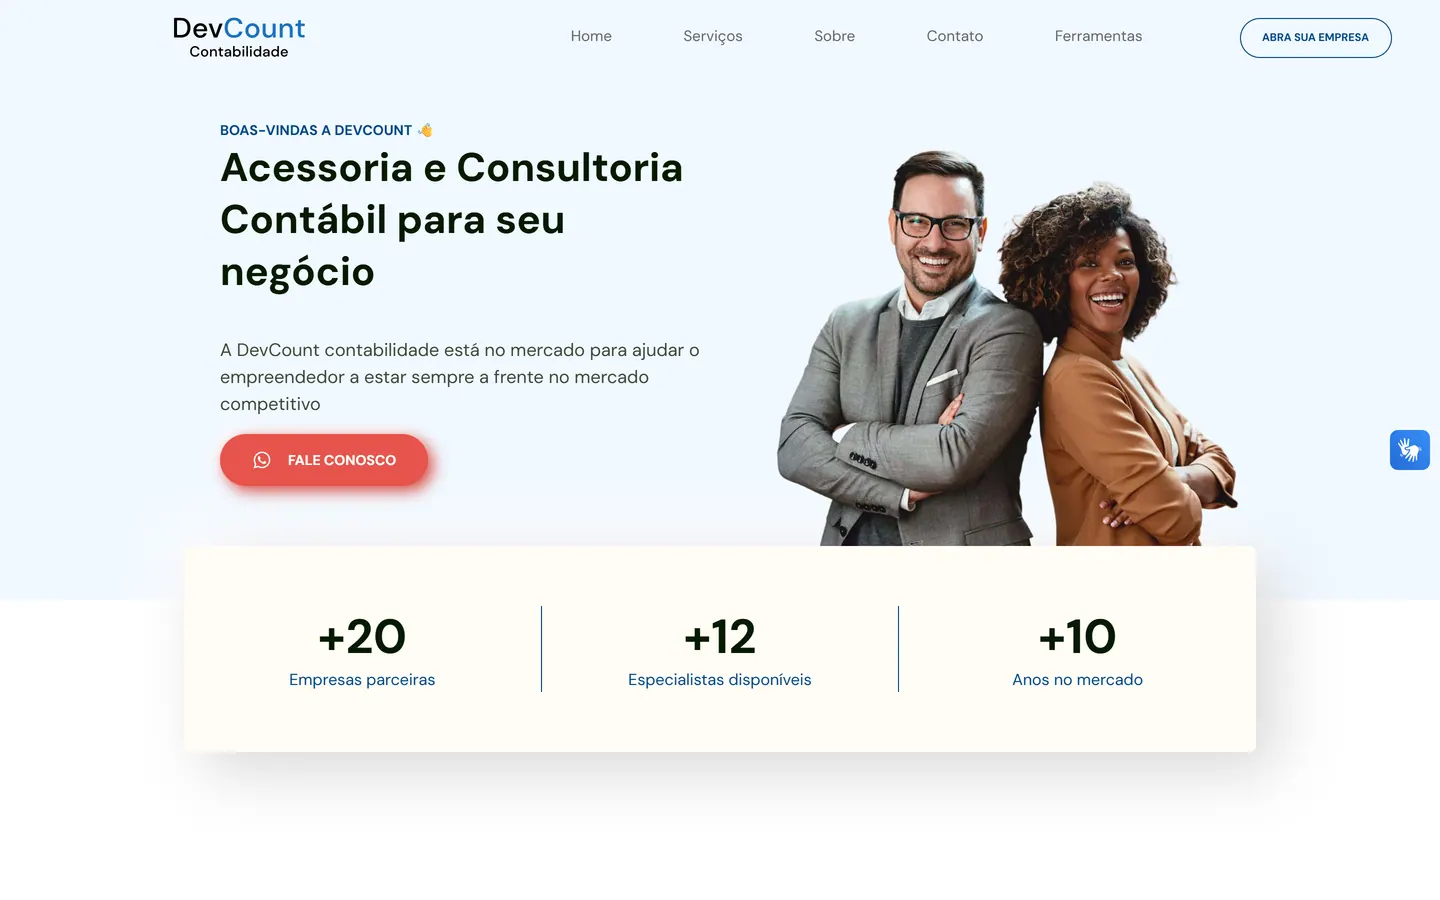
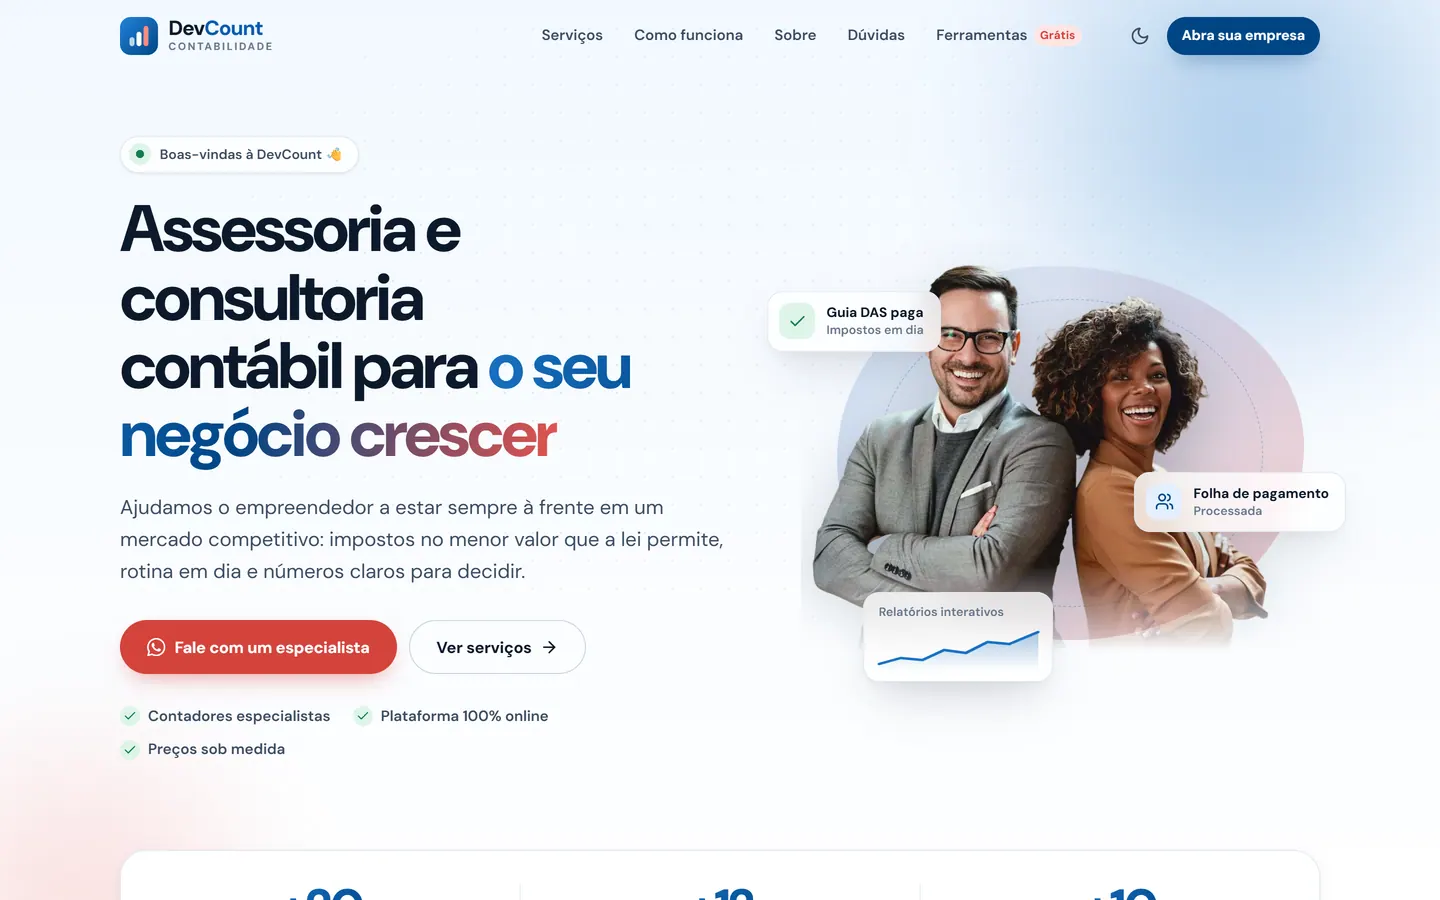
Barra de vidro como a do DevCount, animações mais calmas e capturas novas
- Menu transparente no topo, com o fundo do hero passando por baixo; ao rolar
  entra o vidro do site do DevCount (fundo translúcido, desfoque, borda e sombra leve)
- Entradas e movimentos mais lentos, com um único ajuste de ritmo (--motion-scale)
- Capturas do DevCount refeitas a partir do site novo, com textos alternativos atualizados

diff --git a/src/styles/editorial.css b/src/styles/editorial.css
@@ -394,6 +394,10 @@
   .contact-links {
     width: 100%;
   }
+  .nav-glass {
+    background: var(--nav-bg);
+    backdrop-filter: saturate(1.6) blur(16px);
+  }
   .navbar-brand {
     min-height: 44px;
   }
@@ -600,8 +604,8 @@
     }
     .skill-card {
       transition:
-        transform 250ms var(--ease-out-soft),
-        border-color 250ms;
+        transform 450ms var(--ease-out-soft),
+        border-color 450ms;
     }
     .skill-card:hover {
       transform: translateY(-3px);
@@ -612,13 +616,13 @@
 
 .reveal {
   transition:
-    opacity 650ms var(--ease-out-soft),
-    transform 650ms var(--ease-out-soft);
-  transition-delay: var(--reveal-delay, 0s);
+    opacity calc(650ms * var(--motion-scale)) var(--ease-out-soft),
+    transform calc(650ms * var(--motion-scale)) var(--ease-out-soft);
+  transition-delay: calc(var(--reveal-delay, 0s) * var(--motion-scale));
 }
 .reveal[data-revealed='false'] {
   opacity: 0;
-  transform: translateY(var(--reveal-y, 18px));
+  transform: translateY(var(--reveal-y, 24px));
 }
 .reveal[data-revealed='true'] {
   opacity: 1;
@@ -628,7 +632,7 @@
   transform: scale(0.985);
 }
 .project-preview-inner {
-  transition: transform 850ms var(--ease-out-soft);
+  transition: transform calc(850ms * var(--motion-scale)) var(--ease-out-soft);
 }
 
 /* Quem imprime ou salva em PDF recebe tudo, inclusive o que ainda não entrou na tela. */
@@ -654,7 +658,7 @@
   border-radius: 50%;
   background: radial-gradient(closest-side, var(--glow), transparent 72%);
   transform: translate(-50%, 0);
-  animation: hero-drift 22s ease-in-out infinite alternate;
+  animation: hero-drift 32s ease-in-out infinite alternate;
 }
 @keyframes hero-drift {
   0% {
@@ -683,7 +687,7 @@
     0 0;
   mask-image: radial-gradient(280px circle at var(--mx, 68%) var(--my, 32%), #000, transparent 72%);
   opacity: 0;
-  transition: opacity 500ms var(--ease-out-soft);
+  transition: opacity 800ms var(--ease-out-soft);
 }
 .hero-bg[data-active='true'] .hero-grid-spot {
   opacity: 0.9;
@@ -701,7 +705,7 @@
 
 /* Indicador de rolagem: a seta desce e volta. */
 .hero-scroll svg {
-  animation: hero-nudge 2.4s var(--ease-out-soft) infinite;
+  animation: hero-nudge 3.2s var(--ease-out-soft) infinite;
 }
 @keyframes hero-nudge {
   0%,
@@ -724,7 +728,7 @@
   border-radius: 50%;
   border: 1px solid var(--accent);
   opacity: 0;
-  animation: dot-ping 2.6s var(--ease-out-soft) infinite;
+  animation: dot-ping 3.4s var(--ease-out-soft) infinite;
 }
 @keyframes dot-ping {
   0% {
@@ -741,7 +745,7 @@
 /* Cabeçalho de seção: o fio ao lado do rótulo se desenha quando a seção entra. */
 .section-rule {
   transform-origin: left;
-  transition: transform 900ms var(--ease-out-soft) 150ms;
+  transition: transform calc(900ms * var(--motion-scale)) var(--ease-out-soft) calc(150ms * var(--motion-scale));
 }
 .reveal[data-revealed='false'] .section-rule {
   transform: scaleX(0);
@@ -750,9 +754,9 @@
 /* Itens de lista entram em sequência depois do cartão (--i vem do componente). */
 .reveal .stagger-item {
   transition:
-    opacity 500ms var(--ease-out-soft),
-    transform 500ms var(--ease-out-soft);
-  transition-delay: calc(var(--reveal-delay, 0s) + 120ms + var(--i, 0) * 45ms);
+    opacity calc(500ms * var(--motion-scale)) var(--ease-out-soft),
+    transform calc(500ms * var(--motion-scale)) var(--ease-out-soft);
+  transition-delay: calc((var(--reveal-delay, 0s) + 120ms + var(--i, 0) * 45ms) * var(--motion-scale));
 }
 .reveal[data-revealed='false'] .stagger-item {
   opacity: 0;
@@ -762,8 +766,8 @@
 /* Linha do tempo: o marcador acende e pulsa uma vez quando o cartão entra. */
 .timeline-dot {
   transition:
-    transform 450ms var(--ease-out-soft),
-    border-color 450ms;
+    transform calc(450ms * var(--motion-scale)) var(--ease-out-soft),
+    border-color calc(450ms * var(--motion-scale));
 }
 .timeline-item:has(.reveal[data-revealed='false']) .timeline-dot {
   transform: scale(0.4);
@@ -802,7 +806,7 @@
 /* Desktop com mouse: prévia do projeto aproxima um pouco no hover. */
 @media (hover: hover) and (pointer: fine) {
   .project-preview-button > :first-child {
-    transition: transform 600ms var(--ease-out-soft);
+    transition: transform 900ms var(--ease-out-soft);
   }
   .project-preview-button:hover > :first-child {
     transform: scale(1.025);

diff --git a/src/sections/Hero/Hero.tsx b/src/sections/Hero/Hero.tsx
@@ -7,6 +7,9 @@ import { scrollToSection } from '@/lib/scroll'
 import { SECTION_IDS } from '@/sections/ids'
 import { HeroBackground } from './HeroBackground'
 
+// Atraso das entradas do hero, no ritmo de --motion-scale (tokens.css).
+const delay = (s: number) => ({ animationDelay: `calc(${s}s * var(--motion-scale, 1))` })
+
 export function Hero() {
   const { t, lang } = useI18n()
   const resumeLang = __RESUMES__[lang] ? lang : __RESUMES__.pt ? 'pt' : __RESUMES__.en ? 'en' : null
@@ -26,7 +29,7 @@ export function Hero() {
               <WordReveal text="Danyell" as="span" className="block" delay={0.12} />
             </span>
           </h1>
-          <p className="hero-credential fade-up" style={{ animationDelay: '0.2s' }}>
+          <p className="hero-credential fade-up" style={delay(0.2)}>
             <span aria-hidden="true" className="status-dot" />
             {t.hero.role} <span className="text-muted">084091/O</span>
           </p>
@@ -43,10 +46,10 @@ export function Hero() {
               />
             ))}
           </p>
-          <p className="hero-description fade-up" style={{ animationDelay: '0.35s' }}>
+          <p className="hero-description fade-up" style={delay(0.35)}>
             {t.hero.tagline}
           </p>
-          <div className="hero-actions fade-up" style={{ animationDelay: '0.4s' }}>
+          <div className="hero-actions fade-up" style={delay(0.4)}>
             <ButtonLink
               href={'#' + SECTION_IDS.projects}
               onClick={(e) => {
@@ -72,7 +75,7 @@ export function Hero() {
             ) : null}
           </div>
         </div>
-        <div className="hero-bottom fade-up" style={{ animationDelay: '0.45s' }}>
+        <div className="hero-bottom fade-up" style={delay(0.45)}>
           <a
             href={'#' + SECTION_IDS.about}
             onClick={(e) => {

diff --git a/src/components/layout/Navbar.tsx b/src/components/layout/Navbar.tsx
@@ -53,16 +53,17 @@ export function Navbar() {
   return (
     <header
       className={
-        'fixed inset-x-0 top-0 z-50 border-b bg-bg/95 transition-[border-color,background-color] duration-300 ' +
-        (scrolled || open ? 'border-border/80' : 'border-transparent')
+        'fixed inset-x-0 top-0 z-50 border-b transition-[border-color,box-shadow] duration-500 ' +
+        (scrolled || open ? 'border-border shadow-(--shadow-nav)' : 'border-transparent')
       }
     >
+      {/* No topo a barra é transparente e o fundo do hero continua por baixo dela; ao rolar
+          entra o vidro, o mesmo do site do DevCount: fundo levemente translúcido e desfoque. */}
       <div
         className={
-          'absolute inset-0 -z-10 transition-opacity duration-300 backdrop-blur-xl backdrop-saturate-150 ' +
+          'nav-glass absolute inset-0 -z-10 transition-opacity duration-500 ' +
           (scrolled || open ? 'opacity-100' : 'opacity-0')
         }
-        style={{ background: 'var(--nav-bg)' }}
         aria-hidden="true"
       />
       <nav aria-label={t.a11y.mainNav} className="container-page flex h-16 items-center justify-between gap-4">

diff --git a/src/styles/tokens.css b/src/styles/tokens.css
@@ -23,7 +23,8 @@
   --card-glow: rgba(30, 100, 149, 0.14);
   --spotlight: rgba(30, 100, 149, 0.09);
   --grid-line-soft: rgba(15, 23, 42, 0.033);
-  --nav-bg: rgba(247, 248, 250, 0.7);
+  --nav-bg: rgba(247, 248, 250, 0.78);
+  --shadow-nav: 0 1px 2px rgba(15, 23, 42, 0.06), 0 1px 3px rgba(15, 23, 42, 0.04);
   --shadow-card: 0 1px 2px rgba(15, 23, 42, 0.04), 0 24px 48px -28px rgba(15, 23, 42, 0.22);
   --device: #10151f;
   --device-edge: #2a3240;
@@ -34,6 +35,8 @@
   --device-shadow: rgba(0, 0, 0, 0.55);
   --device-highlight: rgba(255, 255, 255, 0.06);
   --radius-card: 1rem;
+  /* Ritmo das entradas: multiplica duração e atraso de tudo que entra na tela. */
+  --motion-scale: 1.7;
   --page-gutter: 1.25rem;
 }
 
@@ -55,7 +58,8 @@
   --card-glow: rgba(76, 141, 255, 0.14);
   --spotlight: rgba(76, 141, 255, 0.09);
   --grid-line-soft: rgba(139, 149, 167, 0.042);
-  --nav-bg: rgba(10, 15, 26, 0.62);
+  --nav-bg: rgba(10, 15, 26, 0.72);
+  --shadow-nav: 0 1px 2px rgba(0, 0, 0, 0.4);
   --shadow-card: 0 1px 0 rgba(255, 255, 255, 0.03) inset, 0 24px 48px -24px rgba(0, 0, 0, 0.6);
   --device: #1b2231;
   --device-edge: #2c3647;

diff --git a/src/styles/index.css b/src/styles/index.css
@@ -119,7 +119,7 @@
     border-radius: inherit;
     pointer-events: none;
     opacity: 0;
-    transition: opacity 300ms var(--ease-out-soft);
+    transition: opacity 500ms var(--ease-out-soft);
     background: radial-gradient(420px circle at var(--px, 50%) var(--py, 50%), var(--spotlight), transparent 60%);
   }
   .card-spotlight:hover::before {
@@ -180,13 +180,13 @@ html.theme-transition *::after {
 
 /* Entradas do hero em CSS: rodam já no HTML pré-renderizado, antes do JavaScript. */
 .word-reveal {
-  animation: word-in 0.55s var(--ease-out-soft) both;
+  animation: word-in calc(0.55s * var(--motion-scale)) var(--ease-out-soft) both;
 }
 .fade-up {
-  animation: fade-up 0.5s var(--ease-out-soft) both;
+  animation: fade-up calc(0.5s * var(--motion-scale)) var(--ease-out-soft) both;
 }
 .fade-in {
-  animation: fade-in 0.4s var(--ease-out-soft) both;
+  animation: fade-in calc(0.4s * var(--motion-scale)) var(--ease-out-soft) both;
 }
 @keyframes word-in {
   from {

diff --git a/src/sections/Projects/PhoneCarousel.tsx b/src/sections/Projects/PhoneCarousel.tsx
@@ -7,7 +7,7 @@ import type { Shot } from '@/data/projects'
 import { usePrefersReducedMotion } from '@/hooks/useMediaQuery'
 import { useI18n } from '@/i18n/context'
 
-const INTERVAL = 3200
+const INTERVAL = 5200
 const SIZES = '(min-width: 640px) 224px, 192px'
 
 /**
@@ -66,7 +66,7 @@ export function PhoneCarousel({ shots, alts }: { shots: Shot[]; alts: Record<str
             initial={reduced ? false : { opacity: 0, scale: 1.04, y: 10 * direction }}
             animate={{ opacity: 1, scale: 1, y: 0 }}
             exit={reduced ? { opacity: 0 } : { opacity: 0, scale: 0.98, y: -8 * direction }}
-            transition={{ duration: reduced ? 0 : 0.5, ease: [0.22, 1, 0.36, 1] }}
+            transition={{ duration: reduced ? 0 : 0.85, ease: [0.22, 1, 0.36, 1] }}
           >
             <ResponsiveImage
               image={current.image}

diff --git a/src/components/ui/CursorHighlight.tsx b/src/components/ui/CursorHighlight.tsx
@@ -15,8 +15,8 @@ export function CursorHighlight() {
 function Ring() {
   const x = useMotionValue(-100)
   const y = useMotionValue(-100)
-  const sx = useSpring(x, { stiffness: 500, damping: 40, mass: 0.4 })
-  const sy = useSpring(y, { stiffness: 500, damping: 40, mass: 0.4 })
+  const sx = useSpring(x, { stiffness: 380, damping: 38, mass: 0.5 })
+  const sy = useSpring(y, { stiffness: 380, damping: 38, mass: 0.5 })
   const [hover, setHover] = useState(false)
   const [visible, setVisible] = useState(false)
 
@@ -49,7 +49,7 @@ function Ring() {
         opacity: visible ? 1 : 0,
         backgroundColor: hover ? 'color-mix(in oklab, var(--primary) 10%, transparent)' : 'rgba(0,0,0,0)',
       }}
-      transition={{ duration: 0.2, ease: [0.22, 1, 0.36, 1] }}
+      transition={{ duration: 0.3, ease: [0.22, 1, 0.36, 1] }}
     />
   )
 }

diff --git a/src/i18n/pt.ts b/src/i18n/pt.ts
@@ -182,10 +182,10 @@ export const pt = {
           'Publicada no GitHub Pages',
         ],
         shots: {
-          '01-inicio': 'Topo da landing page com chamada principal e indicadores',
-          '02-servicos': 'Seção de serviços em cards',
-          '03-como-funciona': 'Seção que explica como o trabalho funciona',
-          '04-contato': 'Formulário de contato',
+          '01-inicio': 'Topo da landing page com chamada principal, destaques do serviço e ilustração',
+          '02-servicos': 'Seção de serviços em cards, com o que cada um inclui',
+          '03-como-funciona': 'Seção que explica como o trabalho funciona, em três etapas',
+          '04-contato': 'Formulário de contato e canais de atendimento',
           '05-mobile': 'Versão para celular do topo da página',
         },
       },

diff --git a/src/i18n/en.ts b/src/i18n/en.ts
@@ -183,10 +183,10 @@ export const en: Dict = {
           'Published on GitHub Pages',
         ],
         shots: {
-          '01-inicio': 'Top of the landing page with the main headline and key figures',
-          '02-servicos': 'Services section with cards',
-          '03-como-funciona': 'Section explaining how the service works',
-          '04-contato': 'Contact form',
+          '01-inicio': 'Top of the landing page with the main headline, service highlights and illustration',
+          '02-servicos': 'Services section with cards listing what each one includes',
+          '03-como-funciona': 'Section explaining how the service works, in three steps',
+          '04-contato': 'Contact form and service channels',
           '05-mobile': 'Mobile version of the top of the page',
         },
       },

diff --git a/src/components/motion/WordReveal.tsx b/src/components/motion/WordReveal.tsx
@@ -19,7 +19,10 @@ export function WordReveal({ text, as: Tag = 'span', className, delay = 0, stagg
     <Tag className={className}>
       {words.map((word, i) => (
         <span key={`${word}-${i}`} className="inline-block overflow-hidden pb-[0.08em] align-bottom">
-          <span className="word-reveal inline-block" style={{ animationDelay: `${(delay + i * stagger).toFixed(3)}s` }}>
+          <span
+            className="word-reveal inline-block"
+            style={{ animationDelay: `calc(${(delay + i * stagger).toFixed(3)}s * var(--motion-scale, 1))` }}
+          >
             {word}
           </span>
           {i < words.length - 1 ? ' ' : null}

diff --git a/src/sections/Experience/Experience.tsx b/src/sections/Experience/Experience.tsx
@@ -14,7 +14,7 @@ export function Experience() {
   const reduced = usePrefersReducedMotion()
   const { scrollYProgress } = useScroll({ target: listRef, offset: ['start 80%', 'end 65%'] })
   // A mola tira o tranco da roda do mouse: o trilho acompanha a rolagem sem pular.
-  const progress = useSpring(scrollYProgress, { stiffness: 120, damping: 30, mass: 0.4 })
+  const progress = useSpring(scrollYProgress, { stiffness: 70, damping: 26, mass: 0.6 })
   return (
     <section id={SECTION_IDS.experience} aria-labelledby="experience-title" className="section-shell">
       <div className="container-page experience-layout">

diff --git a/src/sections/Hero/HeroBackground.tsx b/src/sections/Hero/HeroBackground.tsx
@@ -27,8 +27,8 @@ export function HeroBackground() {
     let frame = 0
 
     const tick = () => {
-      x += (targetX - x) * 0.12
-      y += (targetY - y) * 0.12
+      x += (targetX - x) * 0.07
+      y += (targetY - y) * 0.07
       el.style.setProperty('--mx', `${(x * 100).toFixed(2)}%`)
       el.style.setProperty('--my', `${(y * 100).toFixed(2)}%`)
       frame = Math.abs(targetX - x) + Math.abs(targetY - y) > 0.0005 ? requestAnimationFrame(tick) : 0
